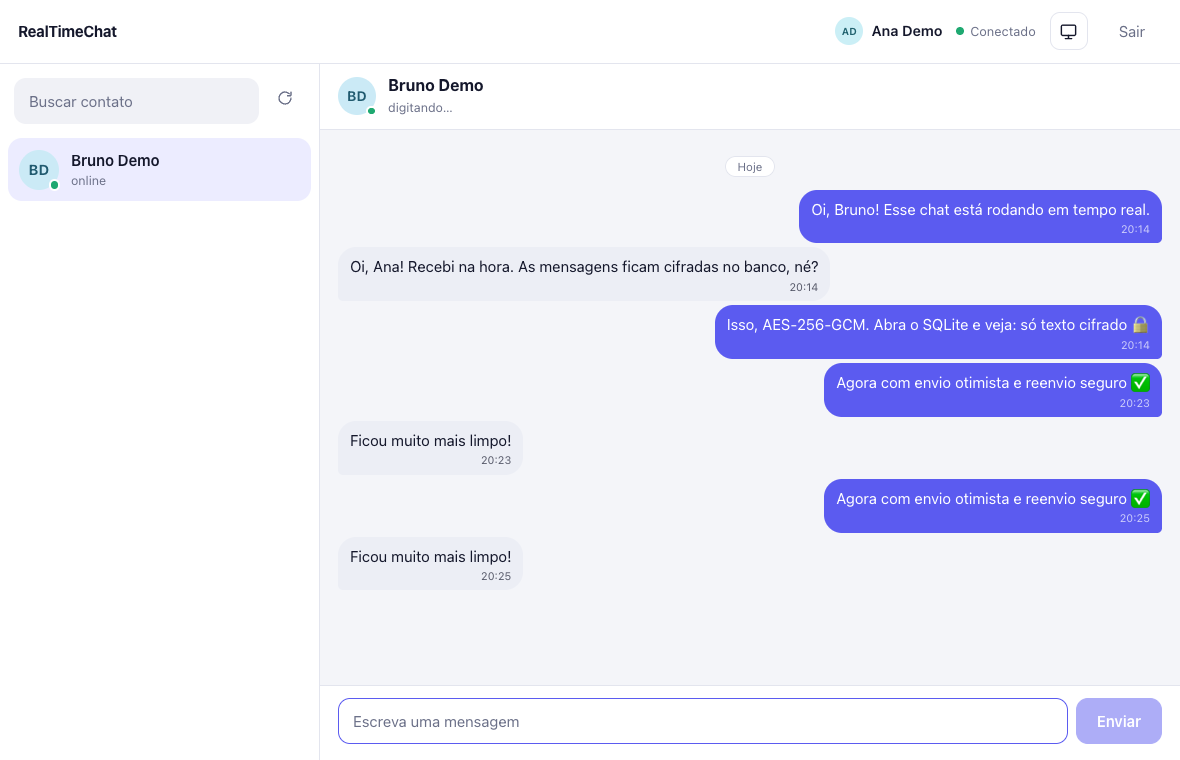
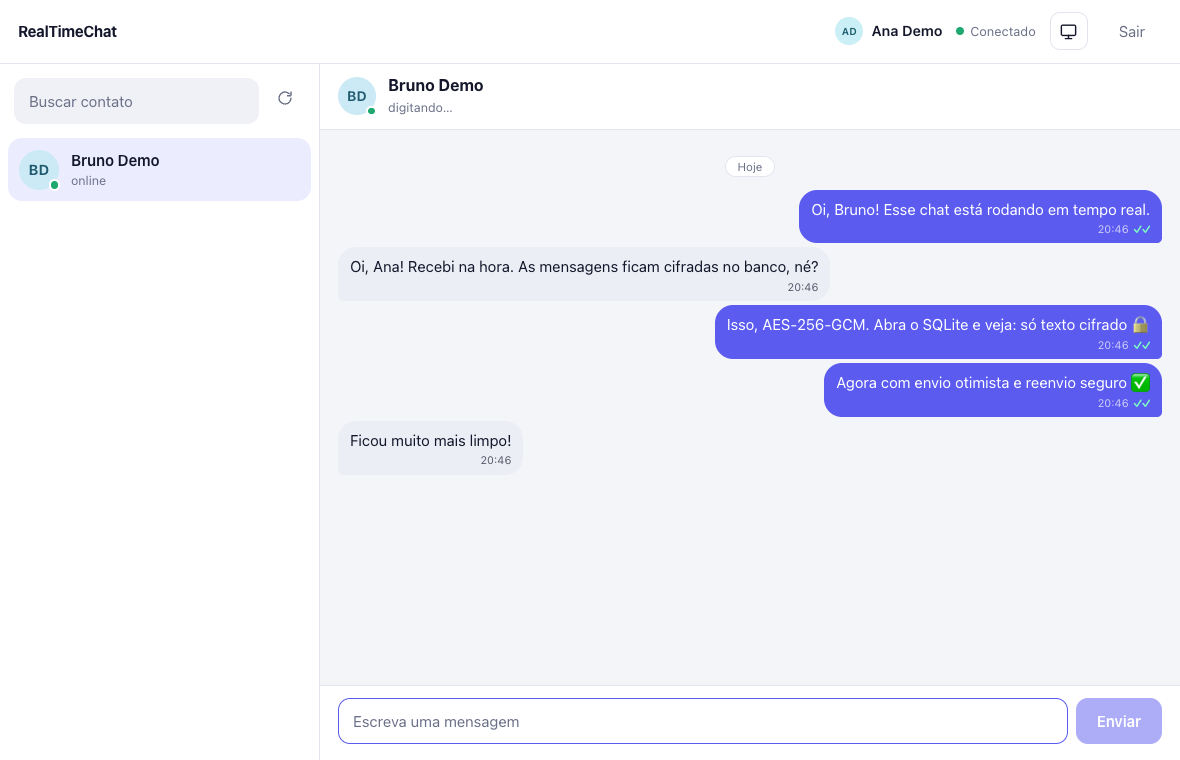
Adiciona confirmação de leitura (✓✓) e contador de não lidas persistente

diff --git a/front-end/src/lib/chat.ts b/front-end/src/lib/chat.ts
@@ -46,6 +46,17 @@ export function merge(history: Message[], incoming: Message[]) {
     .sort((a, b) => a.id - b.id);
 }
 
+/** Avisa o servidor que a conversa aberta foi lida (só com a aba visível e algo pendente). */
+function markRead() {
+  const open = get(peer);
+  if (!socket || !open || !get(connected) || document.visibilityState !== "visible") return;
+  if (!get(unread)[open.id]) return;
+  unread.update(counts => ({ ...counts, [open.id]: 0 }));
+  socket.emit("read", { peerId: open.id });
+}
+
+if (typeof document !== "undefined") document.addEventListener("visibilitychange", markRead);
+
 export async function choose(user: User) {
   if (get(peer)?.id !== user.id) messages.set([]);
   peer.set(user);
@@ -54,7 +65,14 @@ export async function choose(user: User) {
   const version = ++conversationVersion;
   try {
     const history: Message[] = await request(`/messages/${user.id}`);
-    if (version === conversationVersion) messages.update(live => merge(history, live));
+    if (version === conversationVersion) {
+      messages.update(live => merge(history, live));
+      // O servidor é a fonte da verdade das não lidas; ao abrir, marcamos tudo como lido.
+      if (history.some(m => m.senderId === user.id && !m.readAt)) {
+        unread.update(counts => ({ ...counts, [user.id]: 1 }));
+        markRead();
+      }
+    }
   } catch {
     if (version === conversationVersion) error.set("Não foi possível carregar o histórico.");
   }
@@ -64,7 +82,9 @@ export async function refreshContacts() {
   const current = get(session);
   try {
     const people = await request("/users");
-    if (current === get(session)) contacts.set(people);
+    if (current !== get(session)) return;
+    contacts.set(people);
+    unread.set(Object.fromEntries(people.map((user: User) => [user.id, user.unread ?? 0])));
   } catch {
     if (current === get(session)) error.set("Não foi possível carregar os contatos.");
   }
@@ -102,8 +122,21 @@ export async function signIn(creds: { name: string; email: string; password: str
     if (message.clientId) outbox.update(list => list.filter(item => item.clientId !== message.clientId));
     if (open && [message.senderId, message.receiverId].includes(open.id)) {
       messages.update(list => merge(list, [message]));
+      if (message.senderId === open.id) {
+        unread.update(counts => ({ ...counts, [open.id]: 1 }));
+        markRead();
+      }
     } else if (message.senderId !== get(session)?.user.id) {
       unread.update(counts => ({ ...counts, [message.senderId]: (counts[message.senderId] ?? 0) + 1 }));
+    }
+  });
+  connection.on("read", ({ readerId, peerId, upTo, readAt }: { readerId: number; peerId: number; upTo: number; readAt: string }) => {
+    const me = get(session)?.user.id;
+    if (readerId === me) {
+      unread.update(counts => ({ ...counts, [peerId]: 0 })); // outra aba minha leu
+    } else {
+      // O destinatário leu: marca as minhas mensagens até `upTo` como lidas.
+      messages.update(list => list.map(m => m.senderId === me && m.receiverId === readerId && m.id <= upTo ? { ...m, readAt } : m));
     }
   });
   connection.on("typing", ({ senderId }: { senderId: number }) => {

diff --git a/back-end/test/realtime.test.js b/back-end/test/realtime.test.js
@@ -130,3 +130,45 @@ test("limite de mensagens por janela de tempo", async () => {
     await limited.close();
   }
 });
+
+test("confirmação de leitura: recibo ao remetente, histórico e contador de não lidas", async () => {
+  const x = await api.signUp("Leitor"), y = await api.signUp("Autor");
+  const [sx, sy] = await Promise.all([api.socketFor(x.token), api.socketFor(y.token)]);
+  await send(sy, { receiverId: x.id, content: "leia isto" });
+  await send(sy, { receiverId: x.id, content: "e isto" });
+
+  let { body } = await api.call("/users", { token: x.token });
+  assert.equal(body.find(user => user.id === y.id).unread, 2);
+  let history = (await api.call(`/messages/${x.id}`, { token: y.token })).body;
+  assert.equal(history.every(message => message.readAt === null), true);
+
+  const receipt = next(sy, "read");
+  sx.emit("read", { peerId: y.id });
+  const event = await receipt;
+  assert.equal(event.readerId, x.id);
+  assert.equal(event.upTo, history.at(-1).id);
+
+  history = (await api.call(`/messages/${x.id}`, { token: y.token })).body;
+  assert.equal(history.every(message => message.readAt), true);
+  ({ body } = await api.call("/users", { token: x.token }));
+  assert.equal(body.find(user => user.id === y.id).unread, 0);
+});
+
+test("read inválido ou sem mensagens não gera evento nem erro", async () => {
+  const x = await api.signUp("Quieto"), y = await api.signUp("Outro");
+  const [sx, sy] = await Promise.all([api.socketFor(x.token), api.socketFor(y.token)]);
+  const quiet = silent(sy, "read");
+  for (const peerId of ["1", -1, 0, x.id, 99999, null]) sx.emit("read", { peerId });
+  sx.emit("read");
+  assert.equal(await quiet, true);
+});
+
+test("ninguém marca como lidas as mensagens de outra conversa", async () => {
+  const x = await api.signUp("Alvo"), y = await api.signUp("Remetente"), z = await api.signUp("Intruso");
+  const [sy, sz] = await Promise.all([api.socketFor(y.token), api.socketFor(z.token)]);
+  await send(sy, { receiverId: x.id, content: "só para o alvo" });
+  sz.emit("read", { peerId: y.id }); // z não é o destinatário
+  await new Promise(resolve => setTimeout(resolve, 200));
+  const history = (await api.call(`/messages/${x.id}`, { token: y.token })).body;
+  assert.equal(history[0].readAt, null);
+});

diff --git a/front-end/src/lib/Conversation.svelte b/front-end/src/lib/Conversation.svelte
@@ -7,10 +7,10 @@
   let draft = "";
   let list: HTMLElement;
 
-  type Row = { key: string; self: boolean; content: string; at?: string; status?: "sending" | "failed"; clientId?: string };
+  type Row = { key: string; self: boolean; content: string; at?: string; read?: boolean; status?: "sending" | "failed"; clientId?: string };
 
   $: rows = [
-    ...$messages.map(m => ({ key: `m${m.id}`, self: m.senderId === $session?.user.id, content: m.content, at: m.timestamp }) as Row),
+    ...$messages.map(m => ({ key: `m${m.id}`, self: m.senderId === $session?.user.id, content: m.content, at: m.timestamp, read: !!m.readAt }) as Row),
     ...$outbox.filter(o => o.receiverId === $peer?.id).map(o => ({ key: o.clientId, self: true, content: o.content, status: o.status, clientId: o.clientId }) as Row),
   ];
 
@@ -54,7 +54,8 @@
             <span class="meta">
               {#if row.status === "sending"}enviando…
               {:else if row.status === "failed"}não enviada
-              {:else if row.at}{time(row.at)}{/if}
+              {:else if row.at}{time(row.at)}{#if row.self}
+                <span class="ticks" class:read={row.read} role="img" aria-label={row.read ? "lida" : "enviada"}>{row.read ? "✓✓" : "✓"}</span>{/if}{/if}
             </span>
           </div>
           {#if row.status === "failed" && row.clientId}
@@ -96,7 +97,9 @@
   .bubble { max-width: min(78%, 560px); padding: 8px 12px 6px; background: var(--bubble); border-radius: 18px 18px 18px 5px; }
   .self .bubble { background: var(--bubble-self); color: #fff; border-radius: 18px 18px 5px 18px; }
   .text { display: block; overflow-wrap: anywhere; white-space: pre-wrap; }
-  .meta { display: block; margin-top: 1px; font-size: .68rem; text-align: right; opacity: .7; }
+  .meta { display: block; margin-top: 1px; font-size: .68rem; text-align: right; color: color-mix(in srgb, currentColor 70%, transparent); }
+  .ticks { margin-left: 4px; letter-spacing: -.12em; }
+  .ticks.read { color: #7dffc0; font-weight: 700; }
   .bubble.pending { opacity: .65; }
   .bubble.failed { background: var(--danger-soft); color: var(--danger); border: 1px solid var(--danger); }
   .actions { display: flex; gap: 2px; }

diff --git a/back-end/src/sockets.js b/back-end/src/sockets.js
@@ -36,6 +36,23 @@ export function attachSockets(io, { prisma, auth, vault, logger, limits }) {
       }
     });
 
+    // O destinatário abriu a conversa: marca como lidas as mensagens que o peer enviou até agora.
+    socket.on("read", async payload => {
+      const { peerId } = payload ?? {};
+      if (!Number.isSafeInteger(peerId) || peerId < 1 || peerId === userId) return;
+      try {
+        const where = { senderId: peerId, receiverId: userId, readAt: null };
+        const { _max } = await prisma.message.aggregate({ where, _max: { id: true } });
+        if (_max.id === null) return;
+        const readAt = new Date();
+        await prisma.message.updateMany({ where: { ...where, id: { lte: _max.id } }, data: { readAt } });
+        // Avisa o remetente (recibo) e as outras abas de quem leu (zera o contador de não lidas).
+        io.to(room(peerId)).to(room(userId)).emit("read", { readerId: userId, peerId, upTo: _max.id, readAt });
+      } catch (error) {
+        logger.warn({ err: error.code ?? error.message, userId }, "falha ao marcar como lida");
+      }
+    });
+
     socket.on("message", async (payload, ack) => {
       if (typeof ack !== "function") return;
       const now = Date.now();

diff --git a/back-end/src/routes.js b/back-end/src/routes.js
@@ -55,7 +55,14 @@ export function createRoutes({ prisma, auth, vault, isOnline, limits }) {
       orderBy: { name: "asc" },
       take: 100,
     });
-    res.json(users.map(user => ({ ...user, online: isOnline(user.id) })));
+    // Não lidas por remetente, numa consulta só (evita N+1).
+    const counts = await prisma.message.groupBy({
+      by: ["senderId"],
+      where: { receiverId: req.identity.userId, readAt: null },
+      _count: { _all: true },
+    });
+    const unread = new Map(counts.map(row => [row.senderId, row._count._all]));
+    res.json(users.map(user => ({ ...user, online: isOnline(user.id), unread: unread.get(user.id) ?? 0 })));
   }));
 
   router.get("/messages/:peer", auth.authenticate, asyncRoute(async (req, res) => {

diff --git a/front-end/src/lib/types.ts b/front-end/src/lib/types.ts
@@ -1,5 +1,5 @@
-export type User = { id: number; name: string; online?: boolean };
-export type Message = { id: number; senderId: number; receiverId: number; content: string; timestamp: string; clientId?: string };
+export type User = { id: number; name: string; online?: boolean; unread?: number };
+export type Message = { id: number; senderId: number; receiverId: number; content: string; timestamp: string; readAt?: string | null; clientId?: string };
 /** Mensagem que o usuário enviou e o servidor ainda não confirmou (envio otimista). */
 export type Outgoing = { clientId: string; receiverId: number; content: string; status: "sending" | "failed" };
 export type Session = { token: string; user: User };

diff --git a/back-end/test/http.test.js b/back-end/test/http.test.js
@@ -67,7 +67,7 @@ test("/users lista os outros usuários, sem o próprio e sem dados sensíveis", 
   const { body } = await api.call("/users", { token: ana.token });
   assert.ok(body.length >= 1);
   assert.equal(body.some(user => user.id === ana.id), false);
-  assert.deepEqual(Object.keys(body[0]).sort(), ["id", "name", "online"]);
+  assert.deepEqual(Object.keys(body[0]).sort(), ["id", "name", "online", "unread"]);
 });
 
 test("/messages valida o contato", async () => {

diff --git a/back-end/src/vault.js b/back-end/src/vault.js
@@ -31,6 +31,7 @@ export function createVault(secret) {
       receiverId: message.receiverId,
       content,
       timestamp: message.timestamp,
+      readAt: message.readAt ?? null,
     };
   }
 

diff --git a/README.md b/README.md
@@ -23,11 +23,11 @@ Chat de mensagens privadas em tempo real: cadastro, lista de contatos com presen
 
 | Área | O que foi aplicado |
 |---|---|
-| **Tempo real** | Socket.IO com salas por usuário, presença multi-aba, "digitando…" e contador de não lidas |
+| **Tempo real** | Socket.IO com salas por usuário, presença multi-aba, "digitando…" e contador de não lidas persistente e **confirmação de leitura** (✓ enviada, ✓✓ lida) |
 | **Confiabilidade** | envio otimista (a bolha aparece na hora), falha com "Tentar de novo" e **idempotência por `clientId`**: reenviar após uma queda não duplica a mensagem |
 | **Interface** | tema claro, escuro ou automático (sem piscar ao carregar), layout responsivo (lista ↔ conversa no celular), separadores de dia, avatares, acessível por teclado |
 | **Segurança** | JWT validado no socket (o remetente vem do token, não do payload), CORS/origem restritos, Helmet, rate limit em login/cadastro e por socket, limites de tamanho, bcrypt, mensagens com AES-256-GCM, respostas anti-enumeração |
-| **Testes** | 26 testes com servidor real e SQLite temporário: cifra, auth, isolamento entre usuários, presença, limites |
+| **Testes** | 29 testes com servidor real e SQLite temporário: cifra, auth, isolamento entre usuários, presença, limites |
 | **Arquitetura** | back-end modular (`config`, `auth`, `vault`, `routes`, `sockets`), front com estado em stores e componentes pequenos |
 | **Operação** | Docker Compose (API + web), logs JSON (Pino) sem tokens, `/health`, encerramento gracioso, CI no GitHub Actions |
 
@@ -96,11 +96,11 @@ cd front-end && npm run check
 |---|---|
 | `POST /register` | `{name, email, password}` (senha de 8 a 72 bytes) |
 | `POST /login` | devolve `{token, user}` (JWT de 50 min) |
-| `GET /users` | outros usuários e se estão online |
+| `GET /users` | outros usuários, se estão online e quantas mensagens não lidas há de cada um |
 | `GET /messages/:peer` | últimas 100 mensagens da conversa, já decifradas |
 | `GET /health` | verificação de saúde |
 
-Eventos Socket.IO (conexão com `auth: {token}`): `message` (envia `{receiverId, content, clientId}` com ack; o servidor devolve o evento com o mesmo `clientId`), `typing`, `presence`.
+Eventos Socket.IO (conexão com `auth: {token}`): `read` (`{peerId}`: marca a conversa como lida), `message` (envia `{receiverId, content, clientId}` com ack; o servidor devolve o evento com o mesmo `clientId`), `typing`, `presence`.
 
 ## Escopo
 

diff --git a/docs/arquitetura.md b/docs/arquitetura.md
@@ -53,9 +53,16 @@ sequenceDiagram
 
 Limite: a memória de ids é por processo; com várias instâncias seria uma chave única no banco ou Redis.
 
+## Confirmação de leitura
+
+- `Message.readAt` é preenchido quando o destinatário abre a conversa (evento `read {peerId}`). O servidor marca tudo que o `peerId` enviou até o maior id pendente, e emite `read {readerId, peerId, upTo}` para o remetente (que mostra ✓✓) e para as outras abas do leitor (que zeram o contador).
+- O leitor sempre vem do token, então ninguém marca como lida uma conversa que não é sua.
+- O front só envia `read` com a aba visível; ao voltar para a aba, marca o que chegou enquanto estava oculta.
+- As não lidas vêm do banco (`GET /users`, uma consulta `groupBy`), então sobrevivem a reload e a novos logins.
+
 ## Próximos passos possíveis
 
-- Confirmação de leitura (cursor "lido até" por conversa) e estados enviada/entregue/lida.
+- Estado "entregue" (hoje há enviada e lida) e cursor "lido até" por conversa no lugar de `readAt` por mensagem.
 - Paginação do histórico com rolagem infinita.
 - Redis adapter do Socket.IO e rate limit compartilhado, para rodar com várias instâncias.
 - Reações e anexos.
